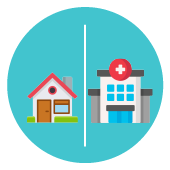
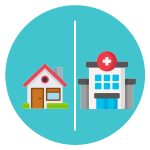
Add files via upload

diff --git a/index.html b/index.html
@@ -30,15 +30,15 @@
   .logo{text-align:center}
   .box{background:#fff;border-radius:16px;padding:16px;box-shadow:0 2px 10px rgba(0,0,0,.06)}
   .rules{padding-left:20px;line-height:1.8}
-  label{display:block;font-weight:600;margin:8px 0 4px}
-  input{width:100%;font:inherit;font-size:16px;padding:12px 14px;border:2px solid #cbd5e1;border-radius:12px}
+  label{display:block;font-weight:550;margin:8px 0 4px}
+  input{width:100%;font:inherit;font-size:14px;padding:12px 14px;border:2px solid #cbd5e1;border-radius:12px}
   input.error{border-color:var(--doc)}
   .btn{width:100%;padding:16px;border-radius:14px;font-size:18px;font-weight:600;color:#fff;
        background:var(--main);box-shadow:0 4px 0 rgba(0,0,0,.18)}
   .btn:active{transform:translateY(3px);box-shadow:none}
   .btn.ghost{background:#fff;color:var(--main);border:2px solid var(--main);box-shadow:none}
   .center{text-align:center}
-  .note{font-size:14px;color:#64748b;text-align:center}
+  .note{font-size:11px;color:#64748b;text-align:center}
   .warn{background:#fef3c7;border:2px solid #f59e0b;border-radius:12px;padding:12px;font-size:14px;line-height:1.6}
 
   /* ---------- หน้าเกม: กองการ์ด ---------- */
